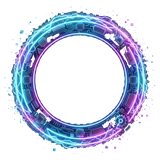
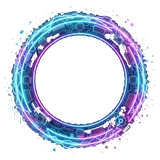
Profile Picture Maker: fit decorative frames around the photo, not over the face
The 5 supplied frame PNGs have a thick art ring whose inner opening is
only ~50% of the image width, so drawn 1:1 it buried the face in flowers.

- PHOTO_FRAMES[].fit scales each overlay up (1.3–1.45x) so its clear
  centre lands just outside the face; script prints a suggested value
- the overlay is now clipped to the photo's shape in both preview and
  export, so its outer edge stays inside the circle and the corners of
  the round PNG stay transparent (was filling them at the larger scale)
- new "Frame size" slider (Frames tab) — nudge the fit 0.72x–1.35x if a
  frame still covers too much or too little
- frames regenerated at 1600px (was 1200) for headroom when scaled up

diff --git a/src/components/tools/image/ProfilePictureMaker.jsx b/src/components/tools/image/ProfilePictureMaker.jsx
@@ -128,13 +128,16 @@ const LINE_STYLES = [
 
 // Decorative PNG frame overlays. Drop a new file in public/frames/ (+ a small
 // public/frames/thumb/ copy for the picker) and add a line here.
+// `fit` = how much bigger than the photo box to draw the overlay so its clear
+// centre sits just outside the face instead of covering it. `scripts/
+// optimise-frames.py` prints a suggested value ("inner r" → fit ≈ 0.72 / r).
 const PHOTO_FRAMES = [
-  { id: 'none', name: 'None', src: null, thumb: null },
-  { id: 'gold-crown', name: 'Gold Crown', src: '/frames/gold-crown.webp', thumb: '/frames/thumb/gold-crown.webp' },
-  { id: 'love-hearts', name: 'Love Hearts', src: '/frames/love-hearts.webp', thumb: '/frames/thumb/love-hearts.webp' },
-  { id: 'pink-kiss', name: 'Pink Kiss', src: '/frames/pink-kiss.webp', thumb: '/frames/thumb/pink-kiss.webp' },
-  { id: 'gaming-neon', name: 'Gaming Neon', src: '/frames/gaming-neon.webp', thumb: '/frames/thumb/gaming-neon.webp' },
-  { id: 'flower-butterfly', name: 'Flower & Butterfly', src: '/frames/flower-butterfly.webp', thumb: '/frames/thumb/flower-butterfly.webp' },
+  { id: 'none', name: 'None', src: null, thumb: null, fit: 1 },
+  { id: 'gold-crown', name: 'Gold Crown', src: '/frames/gold-crown.webp', thumb: '/frames/thumb/gold-crown.webp', fit: 1.45 },
+  { id: 'love-hearts', name: 'Love Hearts', src: '/frames/love-hearts.webp', thumb: '/frames/thumb/love-hearts.webp', fit: 1.3 },
+  { id: 'pink-kiss', name: 'Pink Kiss', src: '/frames/pink-kiss.webp', thumb: '/frames/thumb/pink-kiss.webp', fit: 1.3 },
+  { id: 'gaming-neon', name: 'Gaming Neon', src: '/frames/gaming-neon.webp', thumb: '/frames/thumb/gaming-neon.webp', fit: 1.3 },
+  { id: 'flower-butterfly', name: 'Flower & Butterfly', src: '/frames/flower-butterfly.webp', thumb: '/frames/thumb/flower-butterfly.webp', fit: 1.45 },
 ];
 
 const SHAPES = [
@@ -245,6 +248,7 @@ const ProfilePictureMaker = () => {
   const [squareBg, setSquareBg] = useState(false);
   const [flip, setFlip] = useState(false);
   const [photoFrame, setPhotoFrame] = useState('none');
+  const [frameZoom, setFrameZoom] = useState(1); // user nudge around the frame's default fit
 
   const [scale, setScale] = useState(100);
   const [rotate, setRotate] = useState(0);
@@ -346,6 +350,9 @@ const ProfilePictureMaker = () => {
   const eff = EFFECTS.find((e) => e.key === effect) || EFFECTS[0];
   const frame = border.kind === 'frame' ? FRAMES.find((f) => f.key === border.frame) : null;
   const pFrame = PHOTO_FRAMES.find((f) => f.id === photoFrame && f.src) || null;
+  // draw the decorative overlay this many times the photo box, so its clear
+  // centre lands just outside the face (its outer edge is clipped by the crop)
+  const frameScale = pFrame ? pFrame.fit * frameZoom : 1;
 
   const filterStr = `${eff.filter} brightness(${adjust.b / 100}) contrast(${adjust.c / 100}) saturate(${adjust.s / 100})`.trim();
 
@@ -443,10 +450,17 @@ const ProfilePictureMaker = () => {
       }
 
       // decorative PNG frame — the very top layer, fixed to the canvas (never
-      // moves with the photo), scaled to the full output size.
+      // moves with the photo). Drawn larger than the crop (frameScale) so its
+      // open centre rings the face, and clipped to the same shape as the photo
+      // so its outer edge stays inside the circle and the corners stay clear.
       if (pFrame) {
         const frImg = await cachedImg(`pfrm:${pFrame.id}`, pFrame.src);
-        ctx.drawImage(frImg, 0, 0, S, S);
+        const fs = S * frameScale;
+        ctx.save();
+        shapePath(ctx, S, shape);
+        ctx.clip();
+        ctx.drawImage(frImg, (S - fs) / 2, (S - fs) / 2, fs, fs);
+        ctx.restore();
       }
 
       const type = fmt === 'png' ? 'image/png' : 'image/jpeg';
@@ -545,12 +559,15 @@ const ProfilePictureMaker = () => {
           </div>
           {borderOverlay()}
           {pFrame && (
-            <img
-              src={pFrame.src}
-              alt=""
-              draggable={false}
-              className="absolute inset-0 w-full h-full pointer-events-none select-none"
-            />
+            <div className="absolute inset-0 overflow-hidden pointer-events-none" style={{ borderRadius: radiusCss }}>
+              <img
+                src={pFrame.src}
+                alt=""
+                draggable={false}
+                className="absolute left-1/2 top-1/2 max-w-none select-none"
+                style={{ width: PREVIEW * frameScale, height: PREVIEW * frameScale, transform: 'translate(-50%,-50%)' }}
+              />
+            </div>
           )}
         </div>
 
@@ -733,7 +750,7 @@ const ProfilePictureMaker = () => {
                   <button
                     key={f.id}
                     type="button"
-                    onClick={() => { setPhotoFrame(f.id); setResult(null); }}
+                    onClick={() => { setPhotoFrame(f.id); setFrameZoom(1); setResult(null); }}
                     className={`group relative aspect-square rounded-xl border-2 overflow-hidden transition-colors ${
                       photoFrame === f.id
                         ? 'border-purple-600 ring-2 ring-purple-600/30'
@@ -760,6 +777,20 @@ const ProfilePictureMaker = () => {
                   </button>
                 ))}
               </div>
+              {pFrame && (
+                <label className="block pt-1">
+                  <span className="flex items-center justify-between text-[11px] font-medium text-gray-500 dark:text-gray-400">
+                    <span>Frame size</span>
+                    <span className="tabular-nums">{Math.round(frameScale * 100)}%</span>
+                  </span>
+                  <input
+                    type="range" min={0.72} max={1.35} step={0.01} value={frameZoom}
+                    onChange={(e) => { setFrameZoom(Number(e.target.value)); setResult(null); }}
+                    className="mt-1 w-full accent-purple-600"
+                  />
+                  <span className="block text-[10.5px] text-gray-400 dark:text-gray-500">Drag right to push the frame outward if it covers too much of the face.</span>
+                </label>
+              )}
             </>
           )}
 

diff --git a/scripts/optimise-frames.py b/scripts/optimise-frames.py
@@ -1,6 +1,6 @@
 """
 Key the baked-in transparency checkerboard out of the 5 supplied frame PNGs.
-Works at the 1200px output size. Strategy:
+Works at the 1600px output size. Strategy:
   1. detect the frame's two grey checker tones from its border ring
   2. binary-flood every checker-like pocket, starting from the border + centre,
      spreading through all connected checker-like pixels (no colour threshold —
@@ -9,6 +9,9 @@ Works at the 1200px output size. Strategy:
      by art — those are grey art details (crown pearls, rose highlights), not
      real holes
   4. feather the cut, write WebP + 160px thumb
+  5. report each frame's inner-opening radius (fraction of half-width) — the
+     component scales the overlay by PHOTO_FRAMES[].fit so this opening lands
+     just outside the photo circle instead of covering the face.
 """
 import os
 import numpy as np
@@ -19,7 +22,7 @@ OUT = "public/frames"
 THUMB = os.path.join(OUT, "thumb")
 os.makedirs(THUMB, exist_ok=True)
 NAMES = ["gold-crown", "love-hearts", "pink-kiss", "gaming-neon", "flower-butterfly"]
-N = 1200
+N = 1600
 
 # per-frame tuning: (chroma tolerance, luma band pad, min area to clear a band)
 TUNE = {
@@ -115,7 +118,23 @@ for name in NAMES:
     out.putalpha(a)
 
     pct = (np.asarray(a) < 8).mean() * 100
+
+    # inner-opening radius: how far the clear centre reaches, as a fraction of
+    # the half-width (1.0 == the photo-circle edge). fit ≈ 0.72 / inner.
+    af = np.asarray(a)
+    yy, xx = np.mgrid[0:N, 0:N]
+    rr = np.sqrt((xx - N / 2) ** 2 + (yy - N / 2) ** 2) / (N / 2)
+    inner = 0.0
+    for i in range(20):
+        m = (rr >= i / 20) & (rr < (i + 1) / 20)
+        if m.any() and (af[m] > 40).mean() < 0.06:
+            inner = (i + 1) / 20
+        else:
+            break
+    fit = round(0.72 / inner, 2) if inner else 1.4
+
     out.save(os.path.join(OUT, name + ".webp"), "WEBP", quality=90, method=6)
     out.resize((160, 160), Image.LANCZOS).save(os.path.join(THUMB, name + ".webp"), "WEBP", quality=88, method=6)
     kb = os.path.getsize(os.path.join(OUT, name + ".webp")) / 1024
-    print(f"{name:18s} checker {lo:>3}/{hi:<3}  transparent {pct:4.1f}%   {kb:6.1f} KB")
+    print(f"{name:18s} checker {lo:>3}/{hi:<3}  transparent {pct:4.1f}%   "
+          f"inner r={inner:.2f}  suggested fit={fit}   {kb:6.1f} KB")
